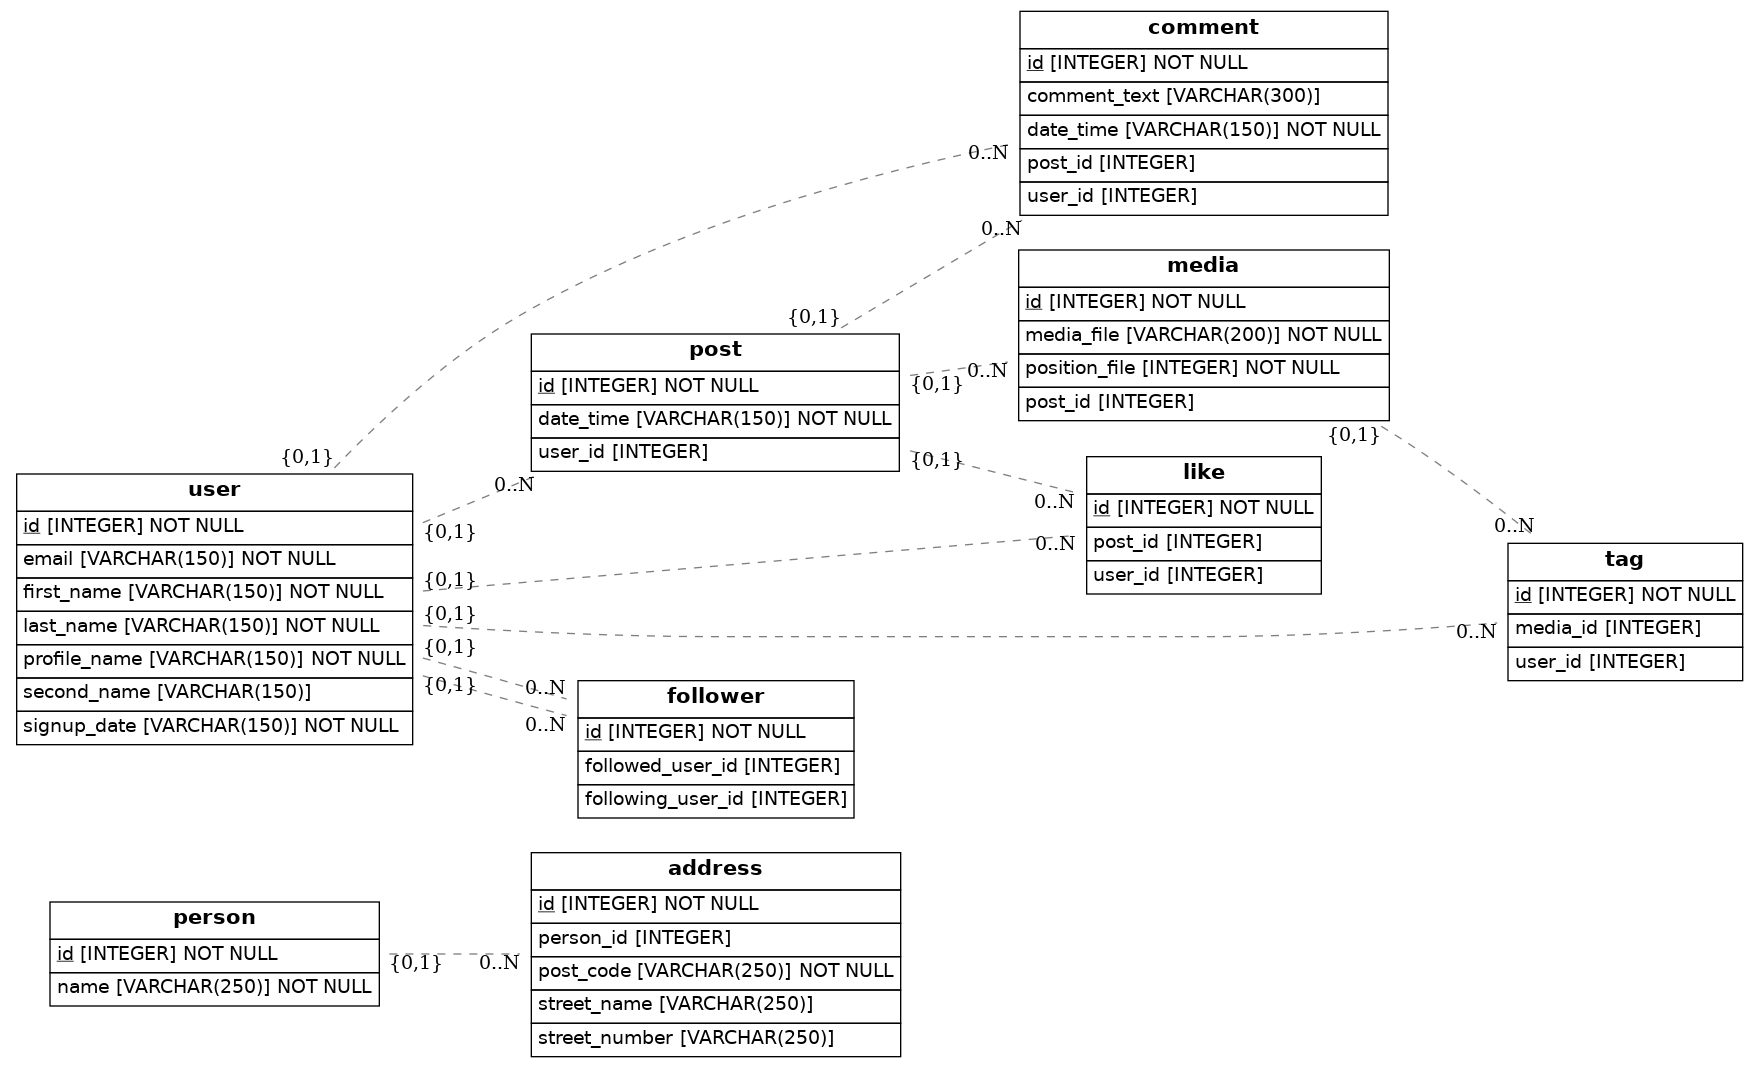
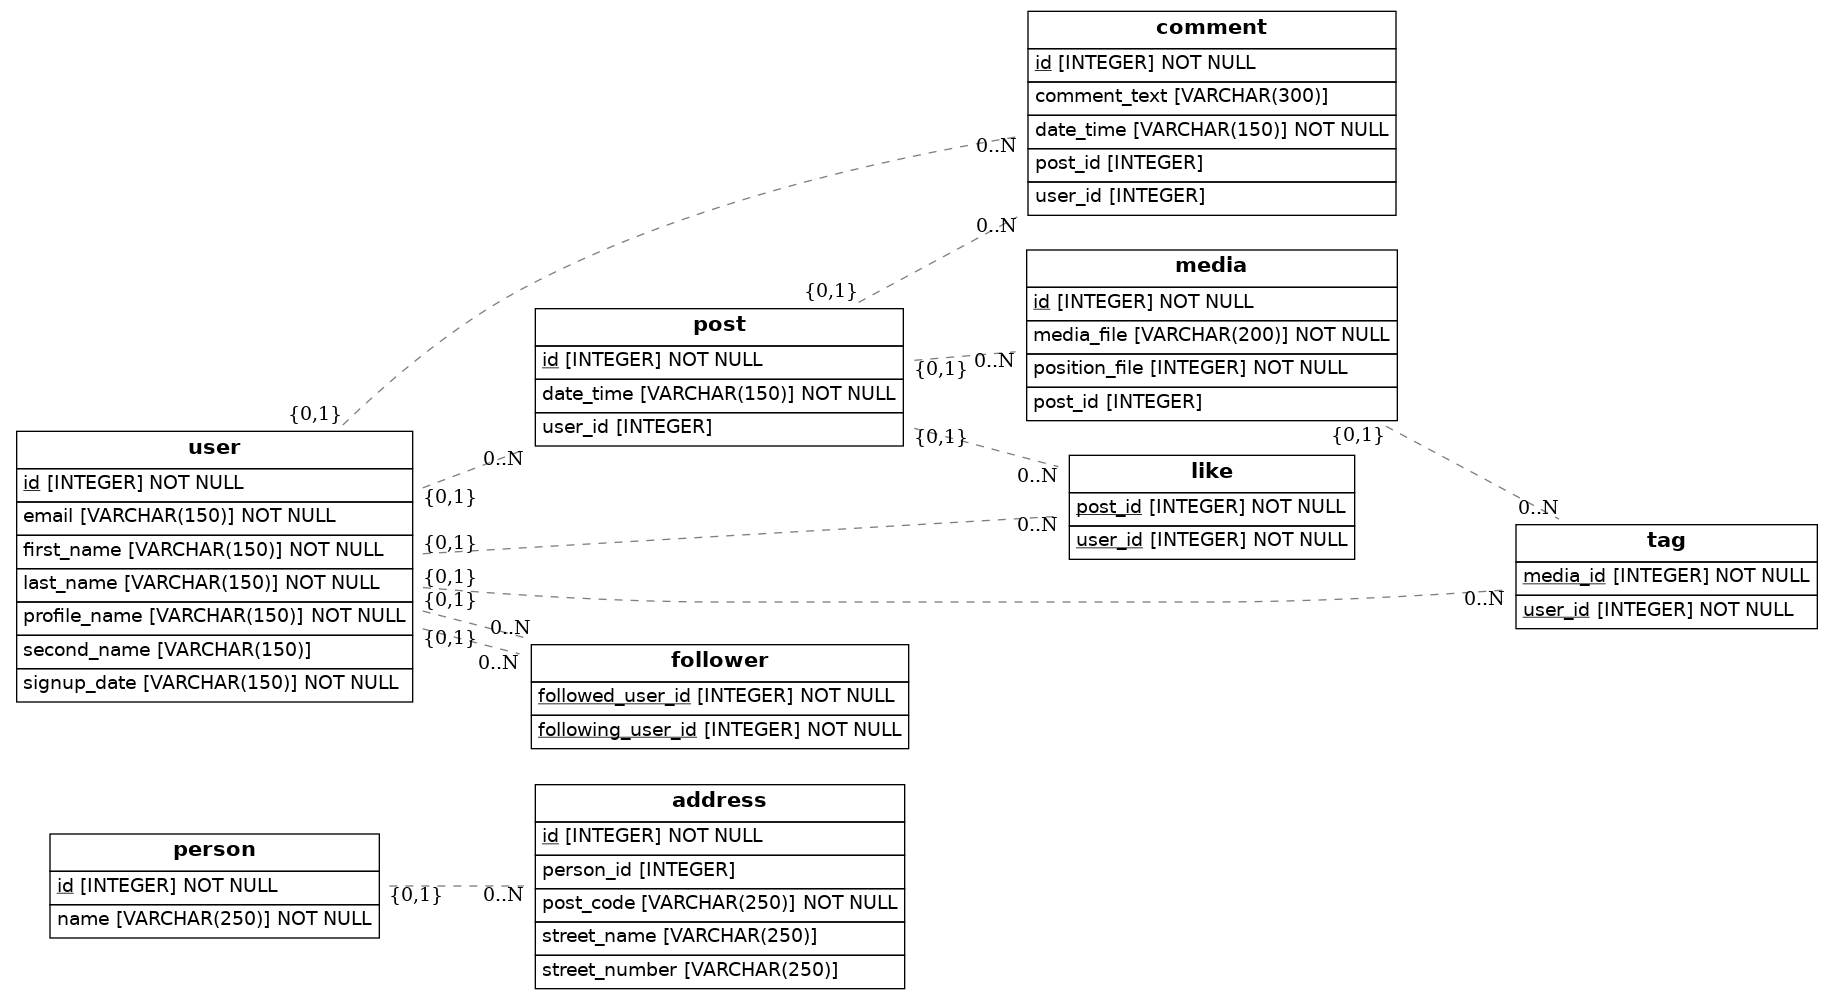
Project with Tables & Relations

diff --git a/src/models.py b/src/models.py
@@ -21,6 +21,8 @@ class Person(Base):
     id = Column(Integer, primary_key=True)
     name = Column(String(250), nullable=False)
 
+    children10 = relationship('Address', back_populates='address_relation_person')
+
 
 class Address(Base):
     __tablename__ = 'address'
@@ -28,8 +30,9 @@ class Address(Base):
     street_name = Column(String(250))
     street_number = Column(String(250))
     post_code = Column(String(250), nullable=False)
-    person_id = Column(Integer, ForeignKey('person.id')) 
-    person = relationship(Person) 
+    person_id = Column(Integer, ForeignKey('person.id'))
+
+    address_relation_person = relationship('Person', back_populates='children10') 
 
 
 
@@ -47,6 +50,11 @@ class User(Base):
     email = Column(String(150), nullable=False)
     signup_date = Column(String(150), nullable=False)
 
+    children1 = relationship('Like', back_populates='like_relation_user')
+    children3 = relationship('Comment', back_populates='comment_relation_user')
+    children6 = relationship('Tag', back_populates='tag_relation_user')
+    children7 = relationship('Follower', back_populates='follower_relation_user')
+    children9 = relationship('Post', back_populates='post_relation_user')
 
 ##Donde personas agregan fotos/videos a la App.
 class Post(Base):
@@ -54,6 +62,12 @@ class Post(Base):
     id = Column(Integer, primary_key=True)
     user_id = Column(Integer, ForeignKey('user.id'))
     date_time = Column(String(150), nullable=False)
+
+    children2 = relationship('Like', back_populates='like_relation_post')
+    children4 = relationship('Comment', back_populates='comment_relation_post')
+    children8 = relationship('Media', back_populates='media_relation_post')
+
+    post_relation_user = relationship('User', back_populates='children9')
 
 
 ##Tabla separada donde se guardan las fotos/videos en un post.
@@ -63,26 +77,29 @@ class Media(Base):
     post_id = Column (Integer, ForeignKey('post.id'))
     media_file = Column (String(200), nullable=False)
     position_file = Column (Integer, nullable=False)
-    relation_post = relationship(Post)
+
+    children5 = relationship('Tag', back_populates='tag_relation_media')
+
+    media_relation_post = relationship('Post', back_populates='children8')
 
 
 ##Tabla para capturar los "seguidos" de un usuario.
 class Follower(Base):
     __tablename__ = 'follower'
-    id = Column(Integer, primary_key=True)
-    following_user_id = Column(Integer, ForeignKey('user.id'))
-    followed_user_id = Column(Integer, ForeignKey('user.id'))
-    relation_user = relationship(User)
+    following_user_id = Column(Integer, ForeignKey('user.id'), primary_key=True)
+    followed_user_id = Column(Integer, ForeignKey('user.id'), primary_key=True)
+
+    follower_relation_user = relationship('User', back_populates='children7')
 
 
 ##Tabla de notificación -> etiquetar usuario/s en post de foto
 class Tag(Base):
     __tablename__ = 'tag'
-    id = Column(Integer, primary_key=True)
-    media_id = Column(Integer, ForeignKey('media.id'))
-    user_id = Column (Integer, ForeignKey('user.id'))
-    relation_media = relationship(Media)
-    relation_user = relationship(User)
+    media_id = Column(Integer, ForeignKey('media.id'), primary_key=True)
+    user_id = Column (Integer, ForeignKey('user.id'), primary_key=True)
+
+    tag_relation_media = relationship('Media', back_populates='children5')
+    tag_relation_user = relationship('User', back_populates='children6')
 
 
 ##Tabla de comentarios -> opción de que otros users comenten post.
@@ -93,18 +110,19 @@ class Comment(Base):
     post_id = Column(Integer, ForeignKey('post.id'))
     date_time = Column(String(150), nullable=False)
     comment_text = Column(String(300), nullable=True)
-    relation_user = relationship(User)
-    relation_post = relationship(Post)
-    
 
+    comment_relation_user = relationship('User', back_populates='children3')
+    comment_relation_post = relationship('Post', back_populates='children4')
+
+    
 ##Tabla de likes -> booleano.
 class Like(Base):
     __tablename__ = 'like'
-    id = Column(Integer, primary_key=True)
-    user_id = Column(Integer, ForeignKey('user.id'))
-    post_id = Column(Integer, ForeignKey('post.id'))
-    relation_user = relationship(User)
-    relation_post = relationship(Post)
+    user_id = Column(Integer, ForeignKey('user.id'), primary_key=True)
+    post_id = Column(Integer, ForeignKey('post.id'), primary_key=True)
+
+    like_relation_user = relationship('User', back_populates='children1')
+    like_relation_post = relationship('Post', back_populates='children2')
 
 
 
